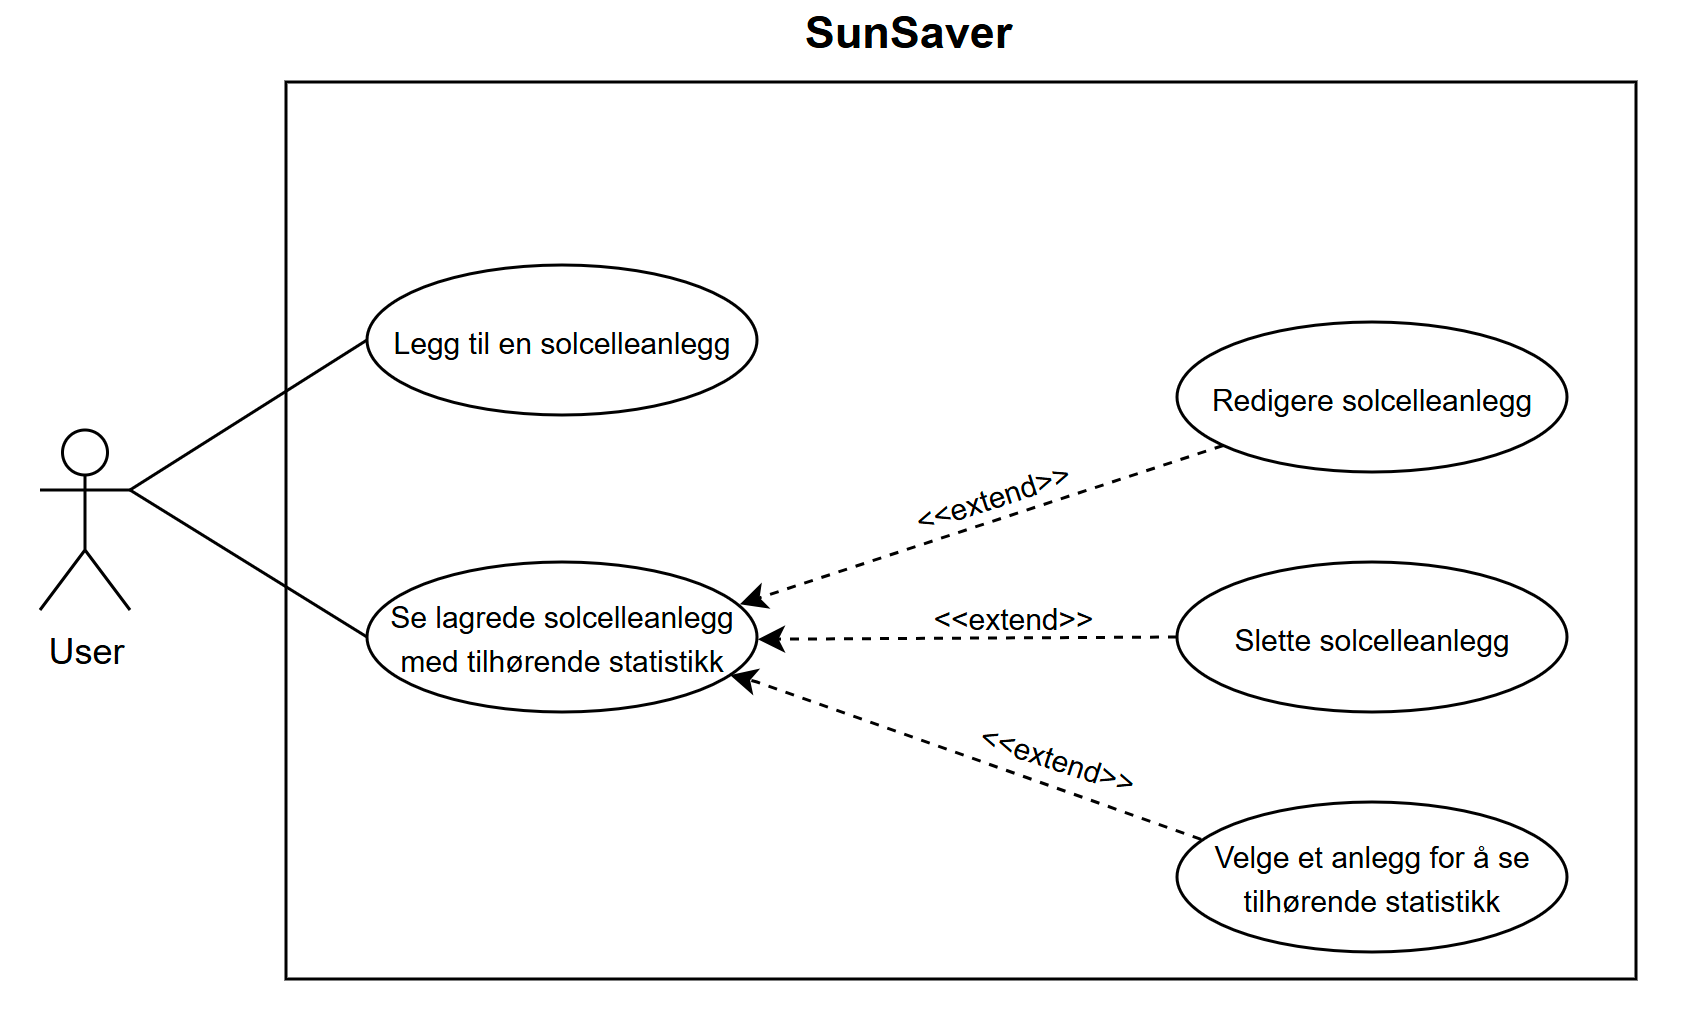
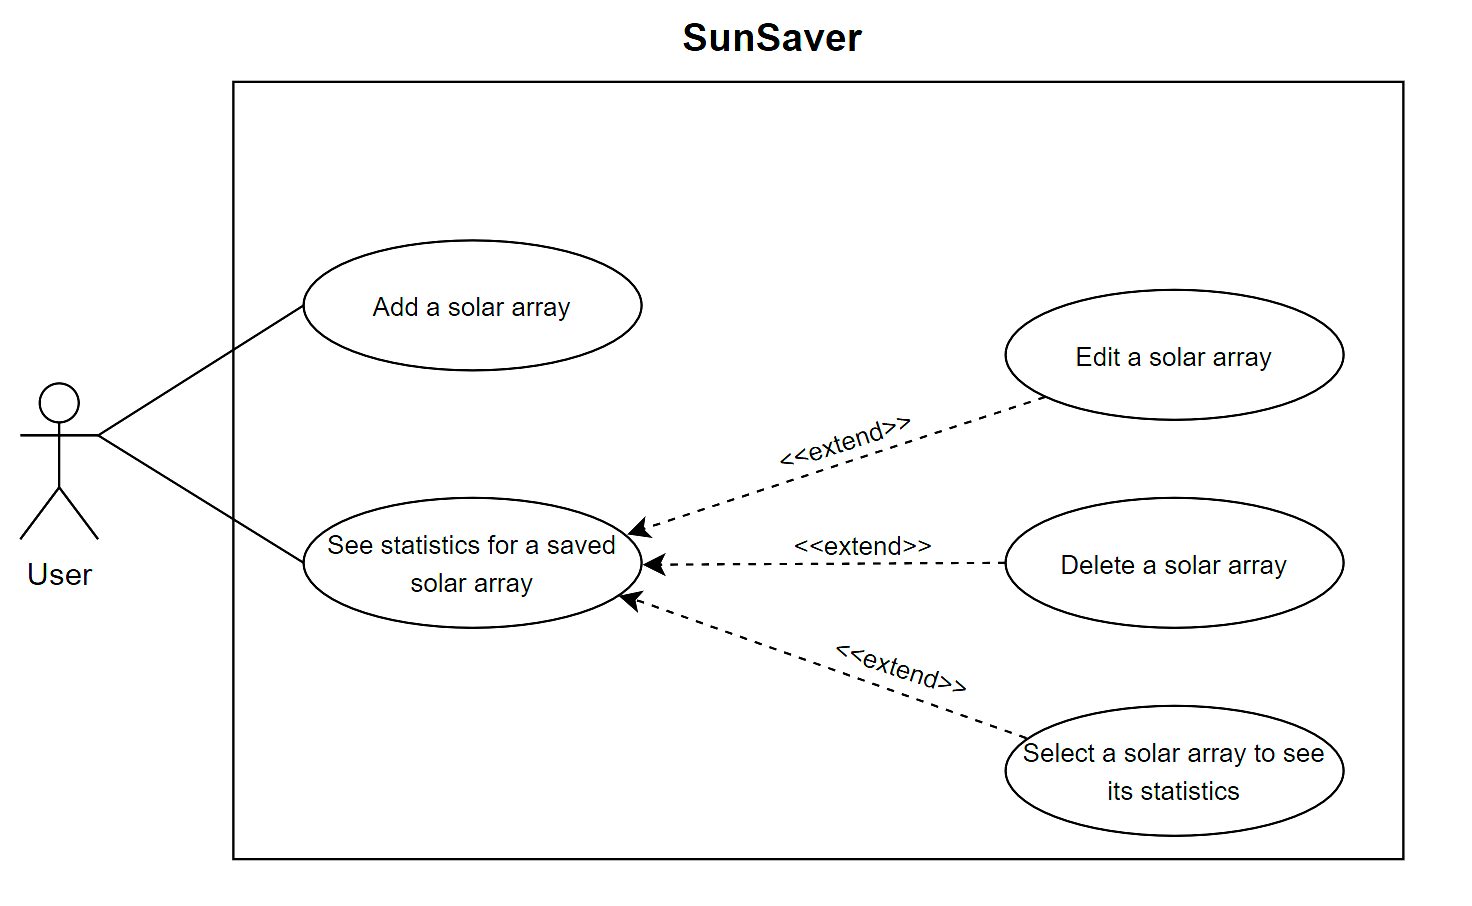
minor changes

diff --git a/MODELING.md b/MODELING.md
@@ -11,7 +11,7 @@ The purpose of the app is for the user to be able to add one or more solar array
 ![Use case diagram](image.png)<br/>
 
 Statistics refer to three things: an estimate of how much you save by installing the chosen solar array, the time it takes to earn back what you have invested in the system, and a graph that shows an overview of electricity production in the area of the solar array based on weather conditions. <br/>
-Editing, deleting and selecting a new solar array are marked with <<extend>> because they require at least one stored solar array.<br/>
+Editing, deleting and selecting a new solar array are marked with <\<extend\>> because they require at least one stored solar array.<br/>
 <br/>
 The diagram was made with the help of [app.diagrams.net](https://app.diagrams.net/) because Mermaid does not provide functionality to model Use case diagrams. <br/>
 
@@ -510,8 +510,7 @@ classDiagram
 ### Comments:
 - The class diagram does not include the data classes that are only used to store the API reponses
 - We chose not to show the relationships between Coordinates, FrostRepository, FrostDatasource, ElectricityRepository, and Pos. We made this decision as a trade-off between completeness and readability. Including all of these connections would have made the diagram appear cluttered, which would reduce its clarity.
-- SolarArrayType: : In Kotlin, enum classes can contain fields and functions, which is not typically supported by standard UML enum representations. Therefore, we chose to model it as a class with fields and methods, and included the enum values as a note.
-- Data classes are red. You cannot see this Github due to Github's limitation but it can be viewed using VSCode's preview button.
+- SolarArrayType: In Kotlin, enum classes can contain fields and functions, which is not typically supported by standard UML enum representations. Therefore, we chose to model it as a class with fields and methods, and included the enum values as a note.
 - Since Mermaid and markdown did not support two <> inside each other, we have used "of" in these cases. For example Flow&lt;list of SolarArray&gt;.
 - SolarArray and SunSaverRepository: Since there is already an association between SolarArray and ISunSaverRepository, and SunSaverRepository implements this interface, we do not create a separate association between SolarArray and SunSaverRepository, as this is implied by inheritance. The same applies to SolarArrayWithRoofSections and SunSaverDatasource.
 
@@ -760,11 +759,11 @@ sequenceDiagram
 4. The app makes an API call to GeoNorge to retrieve address suggestions.
 5. User selects something from the suggestions.
 6. The app zooms in on the address.
-7. The app makes an API call to the Norwegian Mapping Authority to get the cadastreId.
+7. The app makes an API call to the Kartverket to get the cadastreId.
 8. The app makes an API call to Fjordkraft to retrieve roof sections.
 9. The app marks roof sections on the screen.
 10. User selects a roof section.
-11. The app saves the roof area as a map. It calculates the installation price and shows it to the user.
+11. The app saves the roof area as a card. It calculates the installation price and shows it to the user.
 12. User presses save.
 13. The app asks to enter the name of the solar array and their power consumption.
 14. User enters the name
@@ -900,7 +899,7 @@ sequenceDiagram
 
 ## Activity Diagrams
 ### **Name**: Create/edit a solar array
-**Precondition**: User has not added or edited a solar array before 
+**Precondition**: User has not added or edited a solar array before <br/>
 **Postcondition**: User has added the solar array, it is saved in the home screen and they are able to edit it.
 <br/>
 
